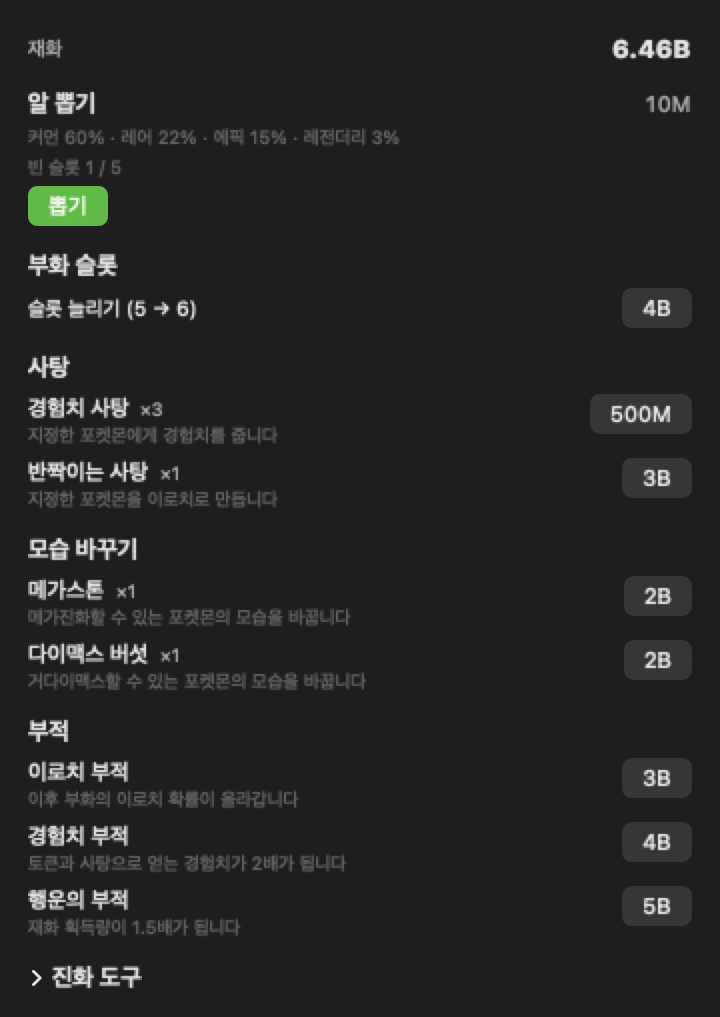
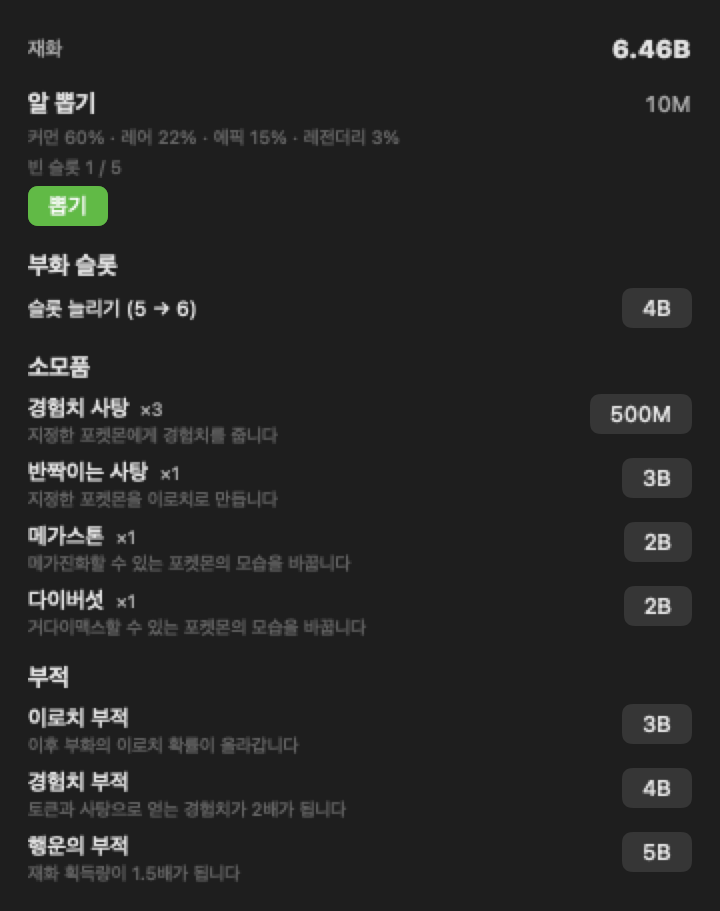
docs: cover foraged items, forms, and the Bag tab

diff --git a/Tests/PokeDexBarTests/ScreenshotGenerator.swift b/Tests/PokeDexBarTests/ScreenshotGenerator.swift
@@ -360,6 +360,15 @@ final class ScreenshotGeneratorTests: XCTestCase {
             XCTAssertTrue(player.buy(item), "\(item) 를 못 샀다 — 시드 지갑이 가격을 못 따라간다")
         }
 
+        // 파트너가 모아 온 것 — 가방 화면이 빈 상태로 찍히면 그 화면이 무엇인지 설명이 안 된다.
+        // 진화 도구와 폼 도구를 섞어 둔다: 두 칸이 다 차 있어야 분류가 보인다.
+        for item in [EvolutionItem.fireStone, .waterStone, .thunderStone, .linkingCord, .metalCoat] {
+            player.grantForTesting(item)
+        }
+        for item in [FormItem.griseousCore, .costumeTrunk, .plateFire] {
+            player.grantForTesting(item)
+        }
+
         // 알은 실제 뽑기 경로로 넣는다 — 시작 시각만 시계를 되감아 각자 다르게 잡는다.
         for egg in eggs {
             clock = base.addingTimeInterval(-egg.startedMinutesAgo * 60)
@@ -784,6 +793,11 @@ final class ScreenshotGeneratorTests: XCTestCase {
                                            selection: .constant(fixture.partnerID))),
                       fullScroll: true),
                   "screenshot-ribbon.png")
+
+        // 가방 — 파트너가 모아 온 것. 상점(사는 곳)과 갈라 둔 화면이라 따로 찍는다:
+        // 도구 106종 중 살 수 있는 건 7종뿐이고 나머지는 여기서만 볼 수 있다.
+        try write(png(tabChrome(BagTabView(store: fixture.player)), fullScroll: true),
+                  "screenshot-bag.png")
 
         // 도감 — 번호순 그리드 + 못 잡은 종 실루엣.
         try write(png(tabChrome(NationalDexView(store: fixture.player))), "screenshot-collection.png")

diff --git a/README.ko.md b/README.ko.md
@@ -41,7 +41,7 @@ PokeDexBar는 당신이 이미 태우고 있는 AI 코딩 토큰(Claude Code · 
 2. 🪙 **평소처럼 코딩하세요.** Claude Code·Codex·Gemini CLI·OpenCode·Hermes Agent·Cursor·Grok CLI에서 태우는 토큰이 그대로 재화가 되고, 동시에 파트너의 경험치도 채웁니다 — 따로 돌릴 건 없어요.
 3. 🥚 **알을 뽑으세요.** **상점**에서 재화를 내면 등급이 무작위로 정해진 알을 받습니다 — 커먼 60% · 레어 22% · 에픽 15% · 레전더리 3%, 고를 순 없어요. 뽑는 순간 짧은 연출이 먼저 재생됩니다 — 흰색 폭발은 항상 뜨고, 레어면 하늘색이 한 번 더, 에픽이면 보라색이 한 번 더, 레전더리면 반짝이는 주황색까지 한 번 더 — 폭발이 몇 번 터지는지가 곧 등급이라 결과 글자를 보기 전에 이미 알 수 있어요. 최대 3개가 동시에 부화 중일 수 있고, 슬롯을 사면 6개까지 늘릴 수 있습니다.
 4. 🐣 **실시간으로 부화.** 커먼은 30분, 레어는 2시간, 에픽은 6시간, 레전더리는 24시간 — 앱을 꺼 둬도 흐르는 실제 시계 기준이고, 준비되면 알림이 한 번 옵니다. 다 익었다고 알이 저절로 깨지는 건 아니에요 — 슬롯에 금이 간 채로 남아 있다가, **확인**을 눌러야 [PokéAPI](https://pokeapi.co/)의 실제 진화 데이터를 가진 진화 전(베이스) 종으로 태어나고 25종 성격 중 하나가 정해지며 — 아주 드문 우연으론 **✨ 이로치**로 태어납니다. 지방 모습이 있는 종은 20% 확률로 알로라·가라르·히스이·팔데아 모습으로 태어나며, 그 개체는 평생 그 모습을 유지합니다.
-5. ⚡ **직접 진화시키세요.** 코딩(또는 상점의 경험치 사탕)으로 경험치를 채우고, 준비되면 눌러서 진화시키세요 — 분기가 있는 라인은 직접 갈 길을 고를 수 있습니다. 지방 모습은 진화 갈래도 바꿉니다 — 가라르 나옹은 나이킹으로, 관동 나옹은 페르시온으로 진화해요. 경험치는 파트너만 직접 얻지만, 같은 파트너와 오래 함께하면 **리본**을 달고, 그 파트너가 쓴 토큰이 경험치 사탕으로 바뀌어 박스 안 **어느 개체에게나** 먹일 수 있게 됩니다 — 오래된 파트너가 자기 혼자 챙기는 대신 컬렉션 전체를 앞당겨 주는 셈이에요.
+5. ⚡ **직접 진화시키세요.** 코딩(또는 경험치 사탕)으로 경험치를 채우고, 준비되면 눌러서 진화시키세요 — 분기가 있는 라인은 직접 갈 길을 고를 수 있습니다. 지방 모습은 진화 갈래도 바꿉니다 — 가라르 나옹은 나이킹으로, 관동 나옹은 페르시온으로 진화해요. 경험치만으로는 안 되는 경우도 있습니다: 56개 갈래는 진화의 돌을, 25종은 통신교환을 요구하는데 교환 상대가 없는 이 앱에서는 **연결의 끈**이나 그때 지녀야 할 물건(금속코트 등)이 대신합니다. 나머지는 함께한 시간을 봅니다. **그 도구들은 팔지 않아요.** 리본을 단 파트너가 *자기에게* 필요한 것을 물어 오고, 한 번 얻으면 없어지지 않아 이후 모든 개체에게 쓸 수 있습니다.
 6. 📖 **두 가지 컬렉션을 채우세요.** **도감**은 지금까지 부화시킨 모든 종을 1번부터 1025번까지 기록합니다(못 본 종은 실루엣). **박스**는 고정 6×5칸 상자를 페이지로 넘겨 보는 방식이에요 — 얻은 순서(오래된 것부터)로 자리가 고정돼 한번 채워진 칸은 움직이지 않습니다. 칸마다 이름표는 없고, 스프라이트 자체와 테두리, 모서리 표시가 파트너·이로치·리본·진화 가능 여부를 대신 말해줘요. 칸을 누르면 상세 화면에서 파트너 지정·사탕 먹이기·진화·폼 변경을 모두 할 수 있습니다. 중복은 자연스러운 일이고, 개체마다 각자의 경험치와 진화 상태를 가져서 코이킹과 갸라도스를 동시에 가질 수도 있어요.
 
 ## 둘러보기
@@ -107,15 +107,22 @@ PokeDexBar는 당신이 이미 태우고 있는 AI 코딩 토큰(Claude Code · 
 <td width="45%" align="center"><img src="assets/screenshot-shop-ko.png" width="300" alt="상점 — 알 뽑기·슬롯 확장·경험치 사탕·반짝이는 사탕·이로치 부적"></td>
 <td width="55%" valign="middle">
 <h3>🛒 경제를 위한 상점</h3>
-그동안 쓴 토큰이 곧 재화입니다 — 1,000만으로 알을 뽑고 확률은 버튼에 바로 표시되며, 부화 슬롯을 3개에서 6개까지 늘리고, <b>경험치 사탕</b>으로 포켓몬을 키우거나 <b>반짝이는 사탕</b>으로 바로 이로치를 만들거나, 부화 이로치 확률을 1/64에서 1/48로 영구히 올리는 <b>이로치 부적</b>, 토큰·경험치 사탕으로 얻는 경험치를 2배로 만드는 <b>경험치 부적</b>, 토큰으로 얻는 재화를 1.5배로 만드는 <b>행운의 부적</b>을 살 수 있어요. 개체 상세 화면에서 <b>메가스톤</b>이나 <b>다이맥스 버섯</b>을 쓰면 80종의 폼 중 하나로 모습을 바꿀 수 있어요.
+그동안 쓴 토큰이 곧 재화입니다 — 1,000만으로 알을 뽑고 확률은 버튼에 바로 표시되며, 부화 슬롯을 3개에서 6개까지 늘리고, <b>경험치 사탕</b>으로 포켓몬을 키우거나 <b>반짝이는 사탕</b>으로 바로 이로치를 만들거나, 부화 이로치 확률을 1/64에서 1/48로 영구히 올리는 <b>이로치 부적</b>, 토큰·경험치 사탕으로 얻는 경험치를 2배로 만드는 <b>경험치 부적</b>, 토큰으로 얻는 재화를 1.5배로 만드는 <b>행운의 부적</b>을 살 수 있어요. 개체 상세 화면에서 <b>메가스톤</b>이나 <b>다이버섯</b>을 쓰면 80종의 폼 중 하나로 모습을 바꿀 수 있어요. 진화 도구와 폼 도구는 일부러 안 팝니다 — 그건 파트너가 물어 와요.
 </td>
 </tr>
 <tr>
 <td width="55%" valign="middle">
-<h3>🎗 리본, 시간을 사탕으로</h3>
+<h3>🎗 리본, 시간을 사탕과 도구로</h3>
 같은 포켓몬을 오래 파트너로 두면 리본을 얻어요 — 하루엔 인연, 일주일엔 신뢰, 한 달엔 유대, 석 달엔 반려, 단계마다 전용 배지가 붙습니다. 리본은 그 포켓몬 자체를 강화하지 않고, 경험치 사탕 하나가 나오는 데 필요한 토큰을 줄여줘요(1억 5천만 → 2천만) — 그 사탕은 파트너뿐 아니라 박스의 어느 개체에게나 먹일 수 있어요.
 </td>
 <td width="45%" align="center"><img src="assets/screenshot-ribbon.png" width="300" alt="포켓몬 상세 화면 — 반려 리본 배지와 등급 이름, 토큰 2천만당 경험치 사탕 1개 생산량, 함께한 시간 97일 12시간이 표시된 상세 정보"></td>
+</tr>
+<tr>
+<td width="45%" align="center"><img src="assets/screenshot-bag.png" width="300" alt="가방 탭 — 소모품과 개수, 그 아래 진화 도구 5/41 과 폼 도구 3/64 수집 현황"></td>
+<td width="55%" valign="middle">
+<h3>🎒 모아 온 것을 보는 가방</h3>
+상점이 파는 건 일곱 가지뿐입니다. 나머지 105종은 오직 파트너가 물어 와야 생기므로, 가진 것을 보는 자리가 <b>가방</b>이에요 — 소모품은 개수와 함께, 부적은 보유 표시로, 그리고 <b>진화 도구 41종</b>·<b>폼 도구 64종</b>은 얼마나 모았는지 진행도로 보여줍니다. 여기서 쓰지는 않아요: 모든 도구는 특정 포켓몬에게 쓰는 것이라 그 포켓몬의 상세 화면에서 씁니다.
+</td>
 </tr>
 </table>
 
@@ -126,7 +133,12 @@ PokeDexBar는 당신이 이미 태우고 있는 AI 코딩 토큰(Claude Code · 
 - **공식 한도** — Claude·Codex 5시간/주간 사용률 + 리셋 카운트다운을 오늘 숫자 바로 아래에.
 - **소진 예측** — 현재 5시간 창이 100%에 도달할 시각 예측.
 - **인앱 업데이트** — 원클릭 업데이트 확인, 설정에 현재 버전 표시.
-- **메가진화 & 거다이맥스** — 메가스톤이나 다이맥스 버섯으로 지정한 포켓몬을 80종의 폼 중 하나로 바꿉니다(리자몽처럼 메가 폼이 둘인 종은 X/Y 모두 제공). 원래 모습으로 되돌리는 건 무료고, 진화하면 폼이 풀립니다.
+- **메가진화 & 거다이맥스** — 메가스톤이나 다이버섯으로 지정한 포켓몬을 80종의 폼 중 하나로 바꿉니다(리자몽처럼 메가 폼이 둘인 종은 X/Y 모두 제공). 원래 모습으로 되돌리는 건 무료고, 진화하면 폼이 풀립니다.
+- **폼 86종 추가** — 아르세우스의 플레이트 17장과 실버디의 메모리 17개, 로토무의 가전제품, 게노세크트의 카세트, 오거폰의 가면, 피카츄의 변장·모자 15종, 그리고 기라티나 오리진부터 원시 그란돈까지의 전설 변신. 폼은 진화의 거울상입니다 — 진화는 종이 바뀌어 못 되돌리지만, 폼은 같은 개체가 다른 것을 걸친 것이라 언제든 되돌아오고 도구도 없어지지 않습니다.
+- **합체** — 큐레무 블랙/화이트, 네크로즈마의 황혼의 갈기/새벽의 날개, 버드렉스의 두 기수는 상대 포켓몬이 박스에 있어야 합니다. 상대는 사라지지 않아요: 먹어 버리면 되돌릴 수 있는 폼이 되돌릴 수 없게 됩니다.
+- **진화 조건** — 56개 갈래는 돌을, 25종은 통신교환에 지녀야 할 물건을 요구하고, 나머지는 함께한 시간을 봅니다. 어느 것도 팔지 않아요 — 리본을 단 파트너가 필요한 것을 물어 오고, 도구는 없어지지 않으므로 처음 얻은 불꽃의돌이 이후 모든 식스테일에게 쓰입니다.
+- **가방** — 상점이 파는 일곱 가지 말고, 모아 온 105종을 보는 자리. 진화 도구 41종·폼 도구 64종의 수집 현황이 함께 보입니다.
+- **"물어 왔어요!"** — 파트너가 뭔가를 찾으면 홈에 카드가 뜨고, 눌러서 하나씩 확인합니다. 확인이 늦어도 손해는 없어요 — 채집은 토큰으로 돌기 때문에, 보고 있었는지와 무관하게 일한 만큼 쌓입니다.
 - **지방 모습** — 알로라·가라르·히스이·팔데아 모습은 해당 종이 부화할 때 20% 확률로 나타나고, 그 개체는 평생 그 모습을 유지하며 진화 갈래가 달라지기도 합니다. 메가진화·거다이맥스는 지방 모습에는 적용되지 않아요.
 - **리본** — 같은 포켓몬을 하루·일주일·한 달·석 달 동안 파트너로 두면 각각 인연·신뢰·유대·반려 리본을 달고, 리본마다 전용 배지가 있어요. 단계가 오를수록 경험치 사탕 하나가 나오는 데 필요한 토큰이 줄어들고(1억 5천만 → 2천만), 그 사탕은 파트너뿐 아니라 박스의 어느 개체에게나 먹일 수 있습니다.
 - **세이브 무결성 검사** — 세이브 파일을 직접 고치는 걸 막지는 않지만, 고치면 감지합니다 — 세이브에 조작 표시가 영구히 남고 모든 스프라이트가 위아래로 뒤집혀 보이지만, 진행 상황이 사라지지는 않아요.

diff --git a/README.md b/README.md
@@ -41,7 +41,7 @@ PokeDexBar turns the AI coding tokens you're already burning — Claude Code, Co
 2. 🪙 **Code as usual.** The tokens you burn in Claude Code, Codex, Gemini CLI, OpenCode, Hermes Agent, Cursor, or Grok CLI become spendable currency and feed your partner's experience at the same time — nothing extra to run.
 3. 🥚 **Draw an egg.** Spend currency in the **Shop** for an egg of a randomly rolled grade — Common 60% / Rare 22% / Epic 15% / Legendary 3%, never chosen. A short reveal plays first: a white burst, plus a second in pale blue if it's Rare, a third in purple if Epic, and a fourth sparkling orange if Legendary — the number of bursts tells you the grade before the label does. Up to 3 eggs incubate at once, expandable to 6 with a slot upgrade.
 4. 🐣 **Hatch on real time.** Commons are ready in 30 minutes, Rares in 2 hours, Epics in 6, Legendaries in 24 — real wall-clock time, even while the app is closed, with a single notification when it's ready. A ripe egg doesn't hatch itself: it waits in its slot, cracked, until you tap **Open** — that's what actually hatches a base (unevolved) species with real evolution data from [PokéAPI](https://pokeapi.co/), rolls one of 25 natures, and — once in a rare while — comes out **✨ Shiny**. Species with a regional look have a 20% chance to hatch as their Alolan, Galarian, Hisuian, or Paldean form instead — a look that individual keeps for life.
-5. ⚡ **Evolve by hand.** Feed a hatchling experience by coding (or with EXP Candy from the Shop), then tap it to evolve once it's ready — branching evolution lines let you pick the path, and a regional form can lead somewhere different (a Galarian Meowth evolves into Perrserker where a Kantonian one becomes Persian). Only your partner earns experience directly, but staying with the same partner long enough earns it a **Ribbon** and turns its own token spending into EXP Candy that can feed any individual in the Box — so a long-standing partner speeds up the whole collection instead of hoarding it.
+5. ⚡ **Evolve by hand.** Feed a hatchling experience by coding (or with EXP Candy), then tap it to evolve once it's ready — branching lines let you pick the path, and a regional form can lead somewhere different (a Galarian Meowth evolves into Perrserker where a Kantonian one becomes Persian). Experience alone isn't always enough: 56 branches want an evolution stone, 25 want a trade — stood in for by a Linking Cord, or by the item that trade would have held, like a Metal Coat — and others want time together. **Those items are never for sale.** A partner wearing a Ribbon brings back the one *it* needs, and once found it stays yours and works on every individual after it.
 6. 📖 **Fill two collections.** The **National Dex** tracks every species you've ever hatched, #1 to #1025, with silhouettes for the rest. Your **Box** is a fixed 6×5 case you page through — sorted oldest-first, so a slot never moves once it's filled — with partner, shiny, ribbon, and evolve-ready status carried by the sprite itself, its border, and its corner markers instead of a label. Tap a cell to open a detail screen where you set your partner, feed candy, evolve, and change form. Duplicates are normal, and each individual keeps its own experience and evolution progress, so you can own both a Pidgey and a Pidgeotto at once.
 
 ## Tour
@@ -107,15 +107,22 @@ Draw up to 3 eggs at once (6 with a slot upgrade) — each grade gets its own sh
 <td width="45%" align="center"><img src="assets/screenshot-shop.png" width="300" alt="Shop — egg draws, slot upgrades, EXP Candy, Shiny Candy, Shiny Charm"></td>
 <td width="55%" valign="middle">
 <h3>🛒 A shop built for the economy</h3>
-Every token you've already used is spendable currency. Draw eggs for 10M tokens with the odds shown right on the button, expand your incubator from 3 slots up to 6, buy <b>EXP Candy</b> to grow a Pokémon or <b>Shiny Candy</b> to make one shiny outright, or pick up a permanent <b>Shiny Charm</b> that raises your hatch odds from 1/64 to 1/48, an <b>EXP Charm</b> that doubles the experience earned from both tokens and EXP Candy, or a <b>Fortune Charm</b> that earns 1.5x the currency from every token you spend. A <b>Mega Stone</b> or <b>Dynamax Mushroom</b>, applied from a Pokémon's own detail screen, reshapes it into one of 80 catalogued forms.
+Every token you've already used is spendable currency. Draw eggs for 10M tokens with the odds shown right on the button, expand your incubator from 3 slots up to 6, buy <b>EXP Candy</b> to grow a Pokémon or <b>Shiny Candy</b> to make one shiny outright, or pick up a permanent <b>Shiny Charm</b> that raises your hatch odds from 1/64 to 1/48, an <b>EXP Charm</b> that doubles the experience earned from both tokens and EXP Candy, or a <b>Fortune Charm</b> that earns 1.5x the currency from every token you spend. A <b>Mega Stone</b> or <b>Max Mushroom</b>, applied from a Pokémon's own detail screen, reshapes it into one of 80 catalogued forms. Evolution and form items are the shop's deliberate omission — those come from your partner.
 </td>
 </tr>
 <tr>
 <td width="55%" valign="middle">
-<h3>🎗 Ribbons turn time into candy</h3>
-Keep the same Pokémon as your partner long enough and it earns a Ribbon — Bond at a day, Trust at a week, Kinship at a month, Lifelong at three months, each with its own badge. The tier doesn't buff that Pokémon directly; it sets how many tokens turn into one EXP Candy, from 150M down to 20M — and that candy can feed any individual in the Box, not just the partner.
+<h3>🎗 Ribbons turn time into candy — and into items</h3>
+Keep the same Pokémon as your partner long enough and it earns a Ribbon — Bond at a day, Trust at a week, Kinship at a month, Lifelong at three months, each with its own badge. The tier doesn't buff that Pokémon directly; it sets how many tokens turn into one EXP Candy, from 150M down to 20M — and that candy can feed any individual in the Box, not just the partner. Every candy is also a chance for that partner to bring back an item **it** needs to evolve or change form, so the detail screen tells you what it's currently hunting for.
 </td>
 <td width="45%" align="center"><img src="assets/screenshot-ribbon.png" width="300" alt="Pokémon detail screen showing the Lifelong ribbon badge beside its tier name, a candy rate of 1 EXP Candy per 20M tokens, and Time together 97d 12h in the facts row"></td>
+</tr>
+<tr>
+<td width="45%" align="center"><img src="assets/screenshot-bag.png" width="300" alt="Bag tab — consumables with counts, then evolution items 5/41 and form items 3/64 listed as collections"></td>
+<td width="55%" valign="middle">
+<h3>🎒 A bag for what you've gathered</h3>
+The shop sells seven things. The other 105 items only ever arrive in a partner's mouth, so the <b>Bag</b> is where you see what you hold: consumables with counts, permanent charms, and two collections that show how far along you are — <b>41 evolution items</b> and <b>64 form items</b>. Nothing is used from here; every item belongs to a specific Pokémon, so you spend it on that Pokémon's own screen.
+</td>
 </tr>
 </table>
 
@@ -126,9 +133,13 @@ Keep the same Pokémon as your partner long enough and it earns a Ribbon — Bon
 - **Official limits** — Claude & Codex 5-hour / weekly utilization with reset countdowns, right under today's numbers.
 - **Burn-rate forecast** — projects when the current 5h window hits 100%.
 - **In-app updates** — one-click update check; current version shown in Settings.
-- **Mega Evolution & Gigantamax** — a Mega Stone or Dynamax Mushroom reshapes a chosen Pokémon into one of 80 catalogued forms (species with two Mega forms, like Charizard, offer both); reverting to normal is free, and evolving clears the form.
+- **Mega Evolution & Gigantamax** — a Mega Stone or Max Mushroom reshapes a chosen Pokémon into one of 80 catalogued forms (species with two Mega forms, like Charizard, offer both); reverting to normal is free, and evolving clears the form.
+- **86 more forms** — Arceus's 17 plates and Silvally's 17 memories, Rotom's appliances, Genesect's drives, Ogerpon's masks, 15 Pikachu costumes and caps, and legendary transformations from Giratina Origin to Primal Groudon. Forms are the mirror image of evolution: evolution changes the species and can't be undone, while a form is the same individual wearing something else, so it reverts freely and its item is never spent.
+- **Fusions** — Kyurem Black and White, Necrozma's Dusk Mane and Dawn Wings, and Calyrex's two riders need the partner species sitting in your Box. It isn't consumed: eating it would make a revertible form permanent.
+- **Evolution conditions** — 56 branches need a stone, 25 need the item a trade would have held, and others need time together. None of them are sold; a ribboned partner finds the one it needs, and items are never spent, so the first Fire Stone serves every Vulpix after it.
 - **Regional forms** — Alolan, Galarian, Hisuian, and Paldean variants can hatch instead of the original (20% chance for species that have one) and stay with that individual for life, sometimes changing what it evolves into; Mega and Gigantamax forms aren't available to them.
-- **Ribbons** — keeping the same Pokémon as your partner for a day, a week, a month, or three months earns it Bond, Trust, Kinship, or Lifelong, each with its own badge; the tier sets how many tokens you spend before it produces one EXP Candy (150M down to 20M), and that candy can feed any individual in the Box, not just the partner.
+- **Ribbons** — keeping the same Pokémon as your partner for a day, a week, a month, or three months earns it Bond, Trust, Kinship, or Lifelong, each with its own badge; the tier sets how many tokens you spend before it produces one EXP Candy (150M down to 20M), and that candy can feed any individual in the Box, not just the partner. Each candy is also a roll for an item that partner needs.
+- **Found it!** — when a partner turns something up, a card on Home names what it brought and opens item by item. Acknowledging it is never a gate: foraging runs on tokens, so a day of work counts whether or not you were watching.
 - **Save integrity check** — hand-editing the save file is detected, not prevented: it marks the save permanently and turns every sprite upside down, but your progress is never discarded.
 
 ## Works with
